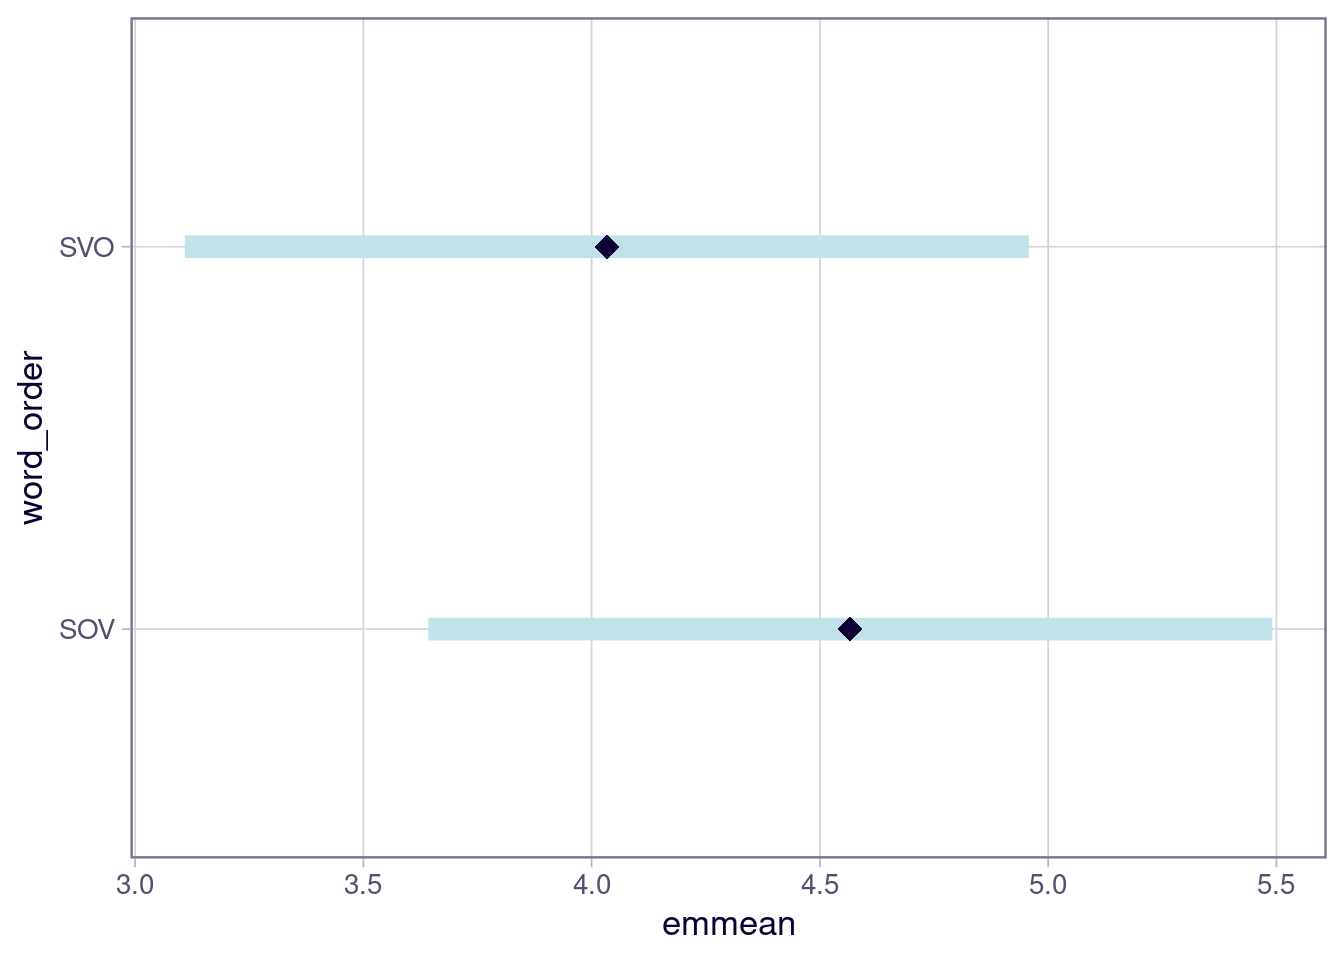
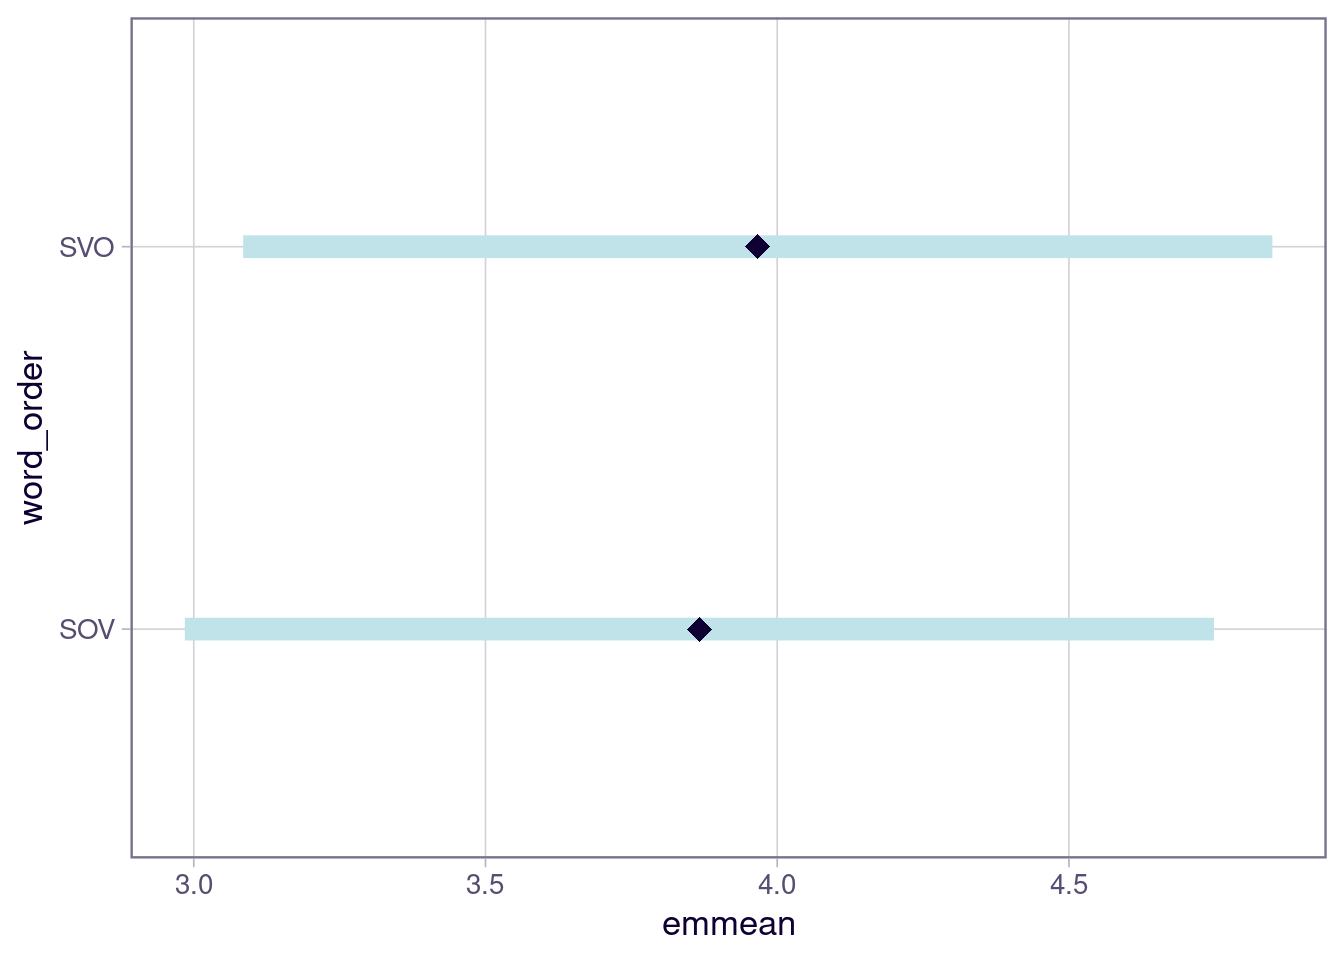
rendered docs

diff --git a/docs/tutorials/power-analysis.html b/docs/tutorials/power-analysis.html
@@ -152,12 +152,12 @@ div.csl-indent {
 <span class="menu-text">Home</span></a>
   </li>  
   <li class="nav-item">
-    <a class="nav-link" href="../tutorials/index.html"> 
-<span class="menu-text">Tutorials</span></a>
+    <a class="nav-link" href="../tutorials/acceptability-ratings.html"> 
+<span class="menu-text">Acceptability Ratings</span></a>
   </li>  
   <li class="nav-item">
-    <a class="nav-link" href="../about.html"> 
-<span class="menu-text">About</span></a>
+    <a class="nav-link active" href="../tutorials/power-analysis.html" aria-current="page"> 
+<span class="menu-text">Power Analysis</span></a>
   </li>  
 </ul>
           </div> <!-- /navcollapse -->
@@ -251,12 +251,12 @@ div.csl-indent {
 <pre><code># A tibble: 6 × 5
   subject  item word_order sentence                     rating
     &lt;int&gt; &lt;int&gt; &lt;chr&gt;      &lt;chr&gt;                         &lt;int&gt;
-1       1     1 SVO        The cat chased the mouse.         5
-2       1     1 SOV        The cat the mouse chased.         6
+1       1     1 SVO        The cat chased the mouse.         4
+2       1     1 SOV        The cat the mouse chased.         5
 3       1     2 SVO        She reads books every night.      5
-4       1     2 SOV        She every night books reads.      6
-5       1     3 SVO        They are visiting the park.       6
-6       1     3 SOV        They the park are visiting.       7</code></pre>
+4       1     2 SOV        She every night books reads.      1
+5       1     3 SVO        They are visiting the park.       7
+6       1     3 SOV        They the park are visiting.       4</code></pre>
 </div>
 </div>
 </section>
@@ -290,29 +290,31 @@ lmerModLmerTest]
 Formula: rating ~ word_order + (1 | subject) + (1 | item)
    Data: df
 
-REML criterion at convergence: 238.7
+REML criterion at convergence: 251.8
 
 Scaled residuals: 
-    Min      1Q  Median      3Q     Max 
--1.9553 -0.7937  0.1367  0.6810  1.8113 
+     Min       1Q   Median       3Q      Max 
+-1.47494 -0.94565 -0.00461  0.66635  1.58820 
 
 Random effects:
  Groups   Name        Variance Std.Dev.
- subject  (Intercept) 0.39041  0.6248  
- item     (Intercept) 0.06638  0.2577  
- Residual             2.87234  1.6948  
+ subject  (Intercept) 0.09534  0.3088  
+ item     (Intercept) 0.00000  0.0000  
+ Residual             3.91871  1.9796  
 Number of obs: 60, groups:  subject, 10; item, 3
 
 Fixed effects:
               Estimate Std. Error      df t value Pr(&gt;|t|)    
-(Intercept)     4.5667     0.3961  7.4853  11.528 4.95e-06 ***
-word_orderSVO  -0.5333     0.4376 47.0000  -1.219    0.229    
+(Intercept)     3.8667     0.3744 27.6879  10.328 5.33e-11 ***
+word_orderSVO   0.1000     0.5111 49.0000   0.196    0.846    
 ---
 Signif. codes:  0 '***' 0.001 '**' 0.01 '*' 0.05 '.' 0.1 ' ' 1
 
 Correlation of Fixed Effects:
             (Intr)
-word_rdrSVO -0.552</code></pre>
+word_rdrSVO -0.683
+optimizer (nloptwrap) convergence code: 0 (OK)
+boundary (singular) fit: see help('isSingular')</code></pre>
 </div>
 </div>
 <p>Plot of the means predicted by the model.</p>
@@ -355,25 +357,25 @@ formula: rating ~ word_order + (1 | subject) + (1 | item)
 data:    df
 
  link  threshold nobs logLik AIC    niter    max.grad cond.H 
- logit flexible  43   -66.04 146.08 270(246) 1.69e-05 4.0e+01
+ logit flexible  46   -71.96 157.92 291(592) 3.31e-06 4.5e+01
 
 Random effects:
- Groups  Name        Variance  Std.Dev.
- subject (Intercept) 0.000e+00 0.00e+00
- item    (Intercept) 9.006e-17 9.49e-09
+ Groups  Name        Variance Std.Dev.
+ subject (Intercept) 0.0000   0.000   
+ item    (Intercept) 0.1892   0.435   
 Number of groups:  subject 10,  item 3 
 
 Coefficients:
               Estimate Std. Error z value Pr(&gt;|z|)
-word_orderSVO -0.05662    0.55176  -0.103    0.918
+word_orderSVO   0.0174     0.5393   0.032    0.974
 
 Threshold coefficients:
     Estimate Std. Error z value
-1|2 -2.06132    0.57578  -3.580
-2|3 -0.98222    0.46937  -2.093
-3|4 -0.07888    0.43891  -0.180
-4|5  0.59219    0.44643   1.327
-(17 observations deleted due to missingness)</code></pre>
+1|2  -1.7878     0.5745  -3.112
+2|3  -0.3734     0.4891  -0.764
+3|4   0.4562     0.4856   0.939
+4|5   1.0816     0.5040   2.146
+(14 observations deleted due to missingness)</code></pre>
 </div>
 </div>
 </section>

diff --git a/docs/about.html b/docs/about.html
@@ -7,7 +7,7 @@
 <meta name="viewport" content="width=device-width, initial-scale=1.0, user-scalable=yes">
 
 
-<title>r-tutorials – Francesca Capuano — R Tutorials</title>
+<title>About – Francesca Capuano — R Tutorials</title>
 <style>
 code{white-space: pre-wrap;}
 span.smallcaps{font-variant: small-caps;}
@@ -91,7 +91,7 @@ ul.task-list li input[type="checkbox"] {
           <div class="collapse navbar-collapse" id="navbarCollapse">
             <ul class="navbar-nav navbar-nav-scroll me-auto">
   <li class="nav-item">
-    <a class="nav-link active" href="./index.html" aria-current="page"> 
+    <a class="nav-link" href="./index.html"> 
 <span class="menu-text">Home</span></a>
   </li>  
   <li class="nav-item">
@@ -121,7 +121,7 @@ ul.task-list li input[type="checkbox"] {
 
 <header id="title-block-header" class="quarto-title-block default">
 <div class="quarto-title">
-<h1 class="title">r-tutorials</h1>
+<h1 class="title">About</h1>
 </div>
 
 
@@ -138,8 +138,7 @@ ul.task-list li input[type="checkbox"] {
 </header>
 
 
-<p>This is a Quarto website.</p>
-<p>To learn more about Quarto websites visit <a href="https://quarto.org/docs/websites" class="uri">https://quarto.org/docs/websites</a>.</p>
+<p>About this site</p>
 
 
 

diff --git a/docs/tutorials/index.html b/docs/tutorials/index.html
@@ -95,12 +95,12 @@ ul.task-list li input[type="checkbox"] {
 <span class="menu-text">Home</span></a>
   </li>  
   <li class="nav-item">
-    <a class="nav-link active" href="../tutorials/index.html" aria-current="page"> 
-<span class="menu-text">Tutorials</span></a>
+    <a class="nav-link" href="../tutorials/acceptability-ratings.html"> 
+<span class="menu-text">Acceptability Ratings</span></a>
   </li>  
   <li class="nav-item">
-    <a class="nav-link" href="../about.html"> 
-<span class="menu-text">About</span></a>
+    <a class="nav-link" href="../tutorials/power-analysis.html"> 
+<span class="menu-text">Power Analysis</span></a>
   </li>  
 </ul>
           </div> <!-- /navcollapse -->

diff --git a/docs/tutorials/acceptability-ratings.html b/docs/tutorials/acceptability-ratings.html
@@ -152,12 +152,12 @@ div.csl-indent {
 <span class="menu-text">Home</span></a>
   </li>  
   <li class="nav-item">
-    <a class="nav-link" href="../tutorials/index.html"> 
-<span class="menu-text">Tutorials</span></a>
+    <a class="nav-link active" href="../tutorials/acceptability-ratings.html" aria-current="page"> 
+<span class="menu-text">Acceptability Ratings</span></a>
   </li>  
   <li class="nav-item">
-    <a class="nav-link" href="../about.html"> 
-<span class="menu-text">About</span></a>
+    <a class="nav-link" href="../tutorials/power-analysis.html"> 
+<span class="menu-text">Power Analysis</span></a>
   </li>  
 </ul>
           </div> <!-- /navcollapse -->
